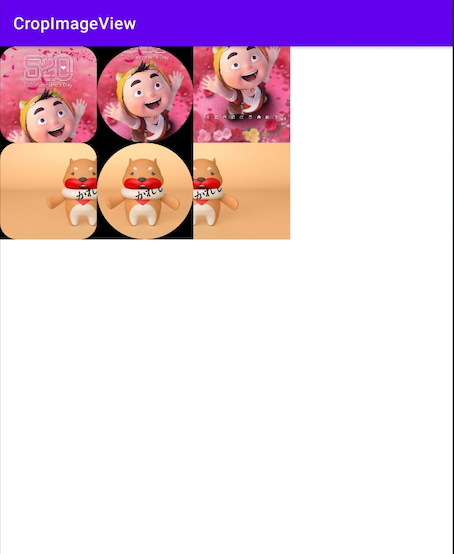
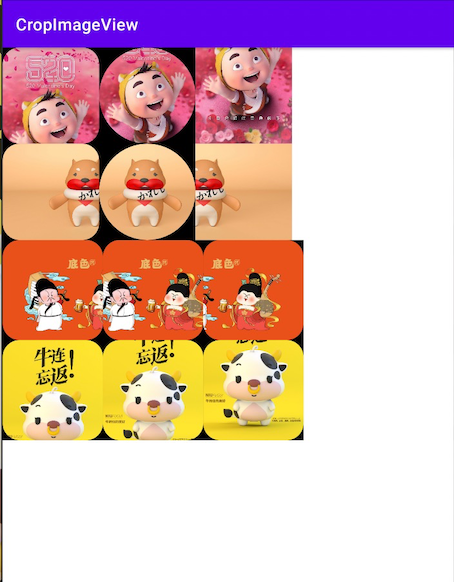
各个方向裁剪图片

diff --git a/crop/src/main/java/com/wiser/crop/CropImageView.kt b/crop/src/main/java/com/wiser/crop/CropImageView.kt
@@ -3,8 +3,10 @@ package com.wiser.crop
 import android.app.Activity
 import android.content.Context
 import android.graphics.Bitmap
+import android.graphics.BitmapFactory
 import android.graphics.drawable.Drawable
 import android.util.AttributeSet
+import androidx.annotation.IdRes
 import androidx.appcompat.widget.AppCompatImageView
 import com.bumptech.glide.Glide
 import com.bumptech.glide.load.DataSource
@@ -28,6 +30,11 @@ class CropImageView(context: Context, attrs: AttributeSet) : AppCompatImageView(
     private var minCropDistance: Int = 114
 
     /**
+     * 裁剪距离
+     */
+    private var cropDistance: Int = 0
+
+    /**
      * 加载图片展示类型
      */
     private var shapeType: Int = SHAPE_DEFAULT
@@ -43,6 +50,11 @@ class CropImageView(context: Context, attrs: AttributeSet) : AppCompatImageView(
     private var errorDrawableId = -1
 
     /**
+     * 资源id
+     */
+    private var resourceId: Int = -1
+
+    /**
      * 裁剪比重
      */
     private var cropGravityType = CROP_GRAVITY_TOP
@@ -53,6 +65,10 @@ class CropImageView(context: Context, attrs: AttributeSet) : AppCompatImageView(
             R.styleable.CropImageView_civ_min_crop_distance,
             minCropDistance.toFloat()
         ).toInt()
+        cropDistance = ta.getDimension(
+            R.styleable.CropImageView_civ_crop_distance,
+            cropDistance.toFloat()
+        ).toInt()
         shapeType = ta.getInt(R.styleable.CropImageView_civ_shape, shapeType)
         cropGravityType = ta.getInt(R.styleable.CropImageView_civ_gravity, cropGravityType)
         roundRadius = ta.getDimension(R.styleable.CropImageView_civ_shape_round_radius, roundRadius)
@@ -60,7 +76,16 @@ class CropImageView(context: Context, attrs: AttributeSet) : AppCompatImageView(
             R.styleable.CropImageView_civ_error_default_pic_src,
             errorDrawableId
         )
+        resourceId = ta.getResourceId(R.styleable.CropImageView_civ_src,resourceId)
         ta.recycle()
+
+        if (resourceId != -1) {
+            if (cropGravityType == CROP_GRAVITY_TOP || cropGravityType == CROP_GRAVITY_CENTER_Y || cropGravityType == CROP_GRAVITY_BOTTOM) {
+                setCropHeightImageResource(resourceId,cropDistance,cropDistance)
+            } else {
+                setCropWidthImageResource(resourceId,cropDistance,cropDistance)
+            }
+        }
     }
 
     companion object {
@@ -133,6 +158,64 @@ class CropImageView(context: Context, attrs: AttributeSet) : AppCompatImageView(
     }
 
     fun getCropGravityType(): Int = cropGravityType
+
+    /**
+     * 加载裁剪高图片
+     * @param id 资源id
+     * @param cropHeight 裁剪高度
+     * @param width 图片宽度
+     *
+     * 默认按宽度压缩，裁剪到控件高度
+     */
+    fun setCropHeightImageResource(@IdRes id: Int,cropHeight: Int = this.height, width: Int = this.width) {
+        val resource = BitmapFactory.decodeResource(resources,id) ?: return
+        if ((width == 0 && this@CropImageView.width == 0) || cropHeight == 0 && this@CropImageView.height == 0) {
+            setImageBitmap(resource)
+        } else {
+            if (cropHeight > 0 && cropHeight < resource.height) {
+                val bitmap = compressWidthAndHeightForBitmap(
+                    resource,
+                    if (width == 0) this@CropImageView.width else width,
+                    if (cropHeight == 0) this@CropImageView.height else cropHeight
+                )
+                setImageCropHeightBitmap(
+                    bitmap,
+                    if (cropHeight > bitmap.height) bitmap.height else if (cropHeight > minCropDistance) cropHeight else minCropDistance
+                )
+            } else {
+                setImageBitmap(resource)
+            }
+        }
+    }
+
+    /**
+     * 加载裁剪高图片
+     * @param id 资源id
+     * @param cropWidth 裁剪宽度
+     * @param height 图片高度
+     *
+     * 默认按高度压缩，裁剪到控件宽度
+     */
+    fun setCropWidthImageResource(@IdRes id: Int,cropWidth: Int = this.width, height: Int = this.height) {
+        val resource = BitmapFactory.decodeResource(resources,id) ?: return
+        if ((height == 0 && this@CropImageView.height == 0) || cropWidth == 0 && this@CropImageView.width == 0) {
+            setImageBitmap(resource)
+        } else {
+            if (cropWidth > 0 && cropWidth < resource.width) {
+                val bitmap = compressWidthAndHeightForBitmap(
+                    resource,
+                    if (cropWidth == 0) this@CropImageView.width else cropWidth,
+                    if (height == 0) this@CropImageView.height else height
+                )
+                setImageCropWidthBitmap(
+                    bitmap,
+                    if (cropWidth > bitmap.width) bitmap.width else if (cropWidth > minCropDistance) cropWidth else minCropDistance
+                )
+            } else {
+                setImageBitmap(resource)
+            }
+        }
+    }
 
     /**
      * 加载裁剪高图片
